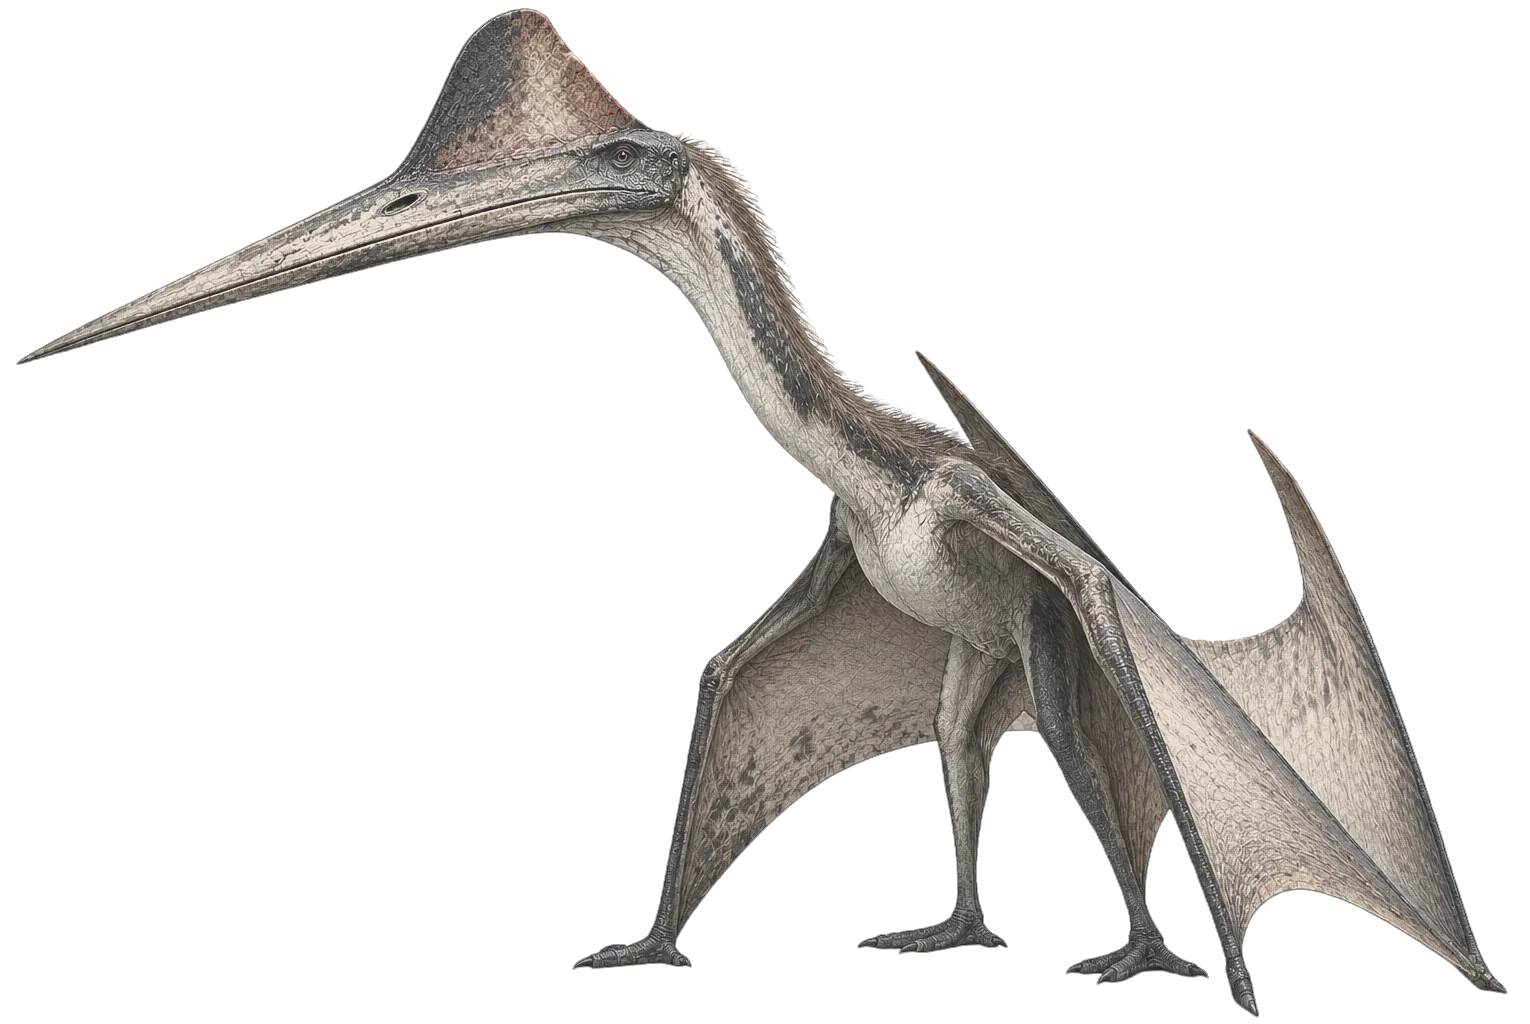
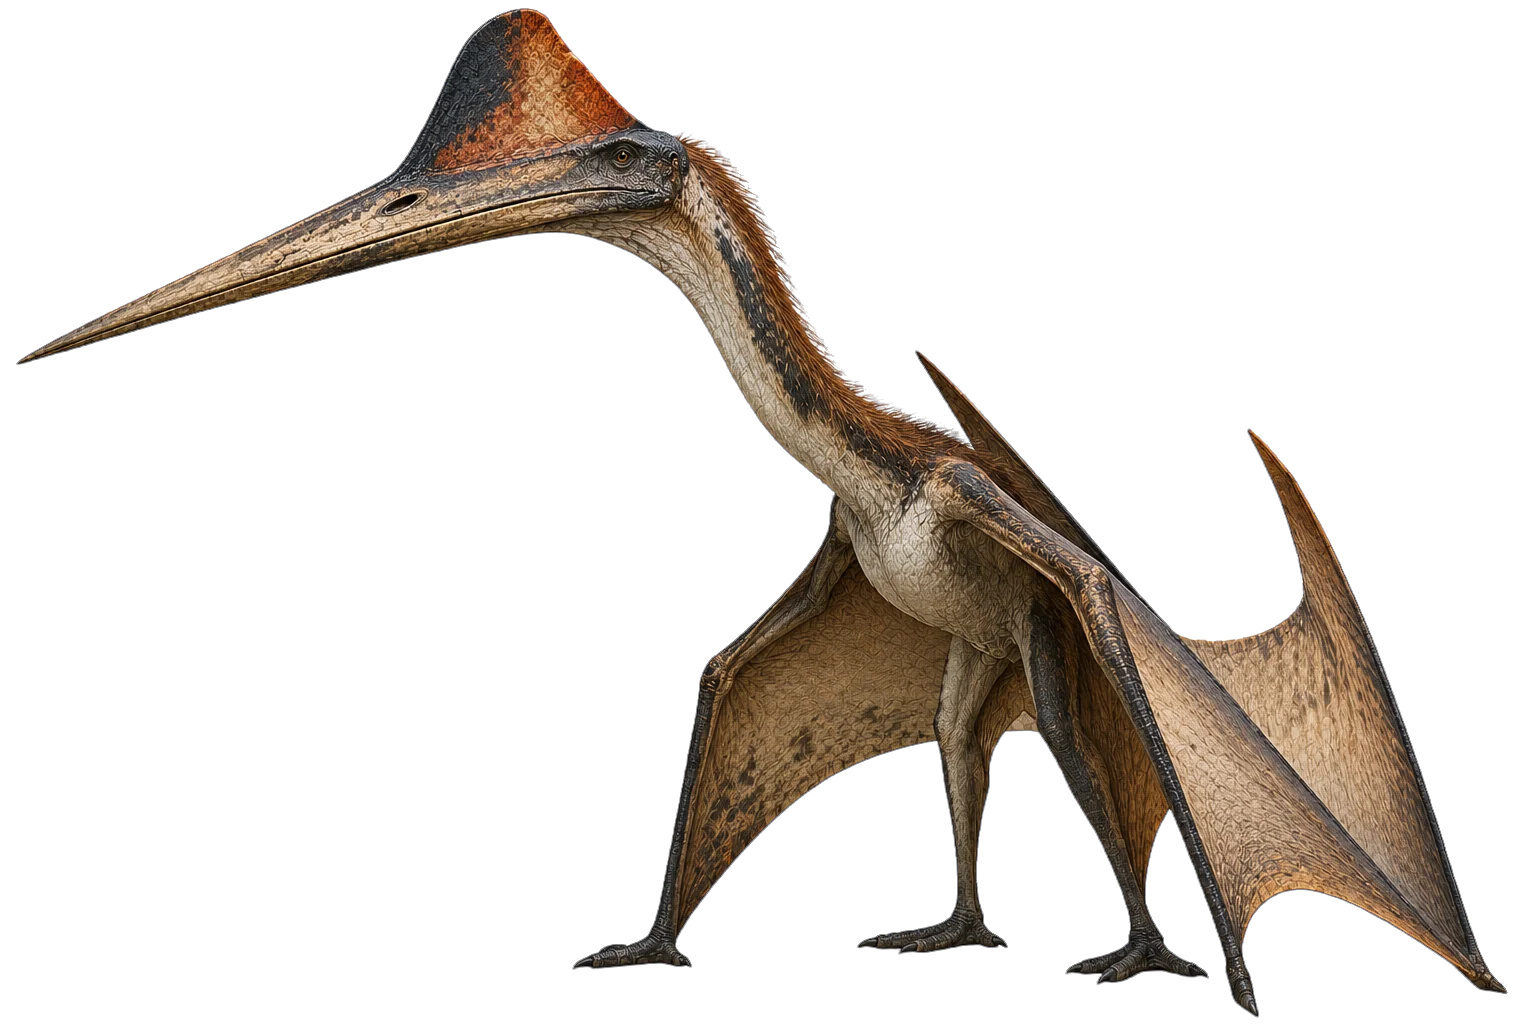
Quetzalcoatlus keeps its own colours
Its recolouring to pale grey is undone: the warm browns it had were closer to
what is known. Its picture number goes up so the grey one is fetched no more.

Changed region(s): [[0.0307, 0.0, 0.983, 1.0], [0.5837, 0.3438, 0.6144, 0.375]]

diff --git a/index.html b/index.html
@@ -1386,7 +1386,7 @@
      what fossils show of their colours or their relatives' (see README). */
   var PIC_VERSION = {compsognathus: 2, ankylosaurus: 2, mosasaurus: 2, ichthyosaurus: 2, giganotosaurus: 2,
                      carcharodontosaurus: 2, megalosaurus: 2, coelophysis: 2, brachiosaurus: 2, diplodocus: 2,
-                     argentinosaurus: 2, edmontosaurus: 2, plateosaurus: 2, rhamphorhynchus: 2, quetzalcoatlus: 2,
+                     argentinosaurus: 2, edmontosaurus: 2, plateosaurus: 2, rhamphorhynchus: 2, quetzalcoatlus: 3,
                      ornithocheirus: 2, glacialisaurus: 2, australovenator: 2, ugrunaaluk: 2, kronosaurus: 2};
   function picSrc(id, full){
     return "img/" + (full ? "full/" : "") + id + ".webp" + (PIC_VERSION[id] ? "?v=" + PIC_VERSION[id] : "");
